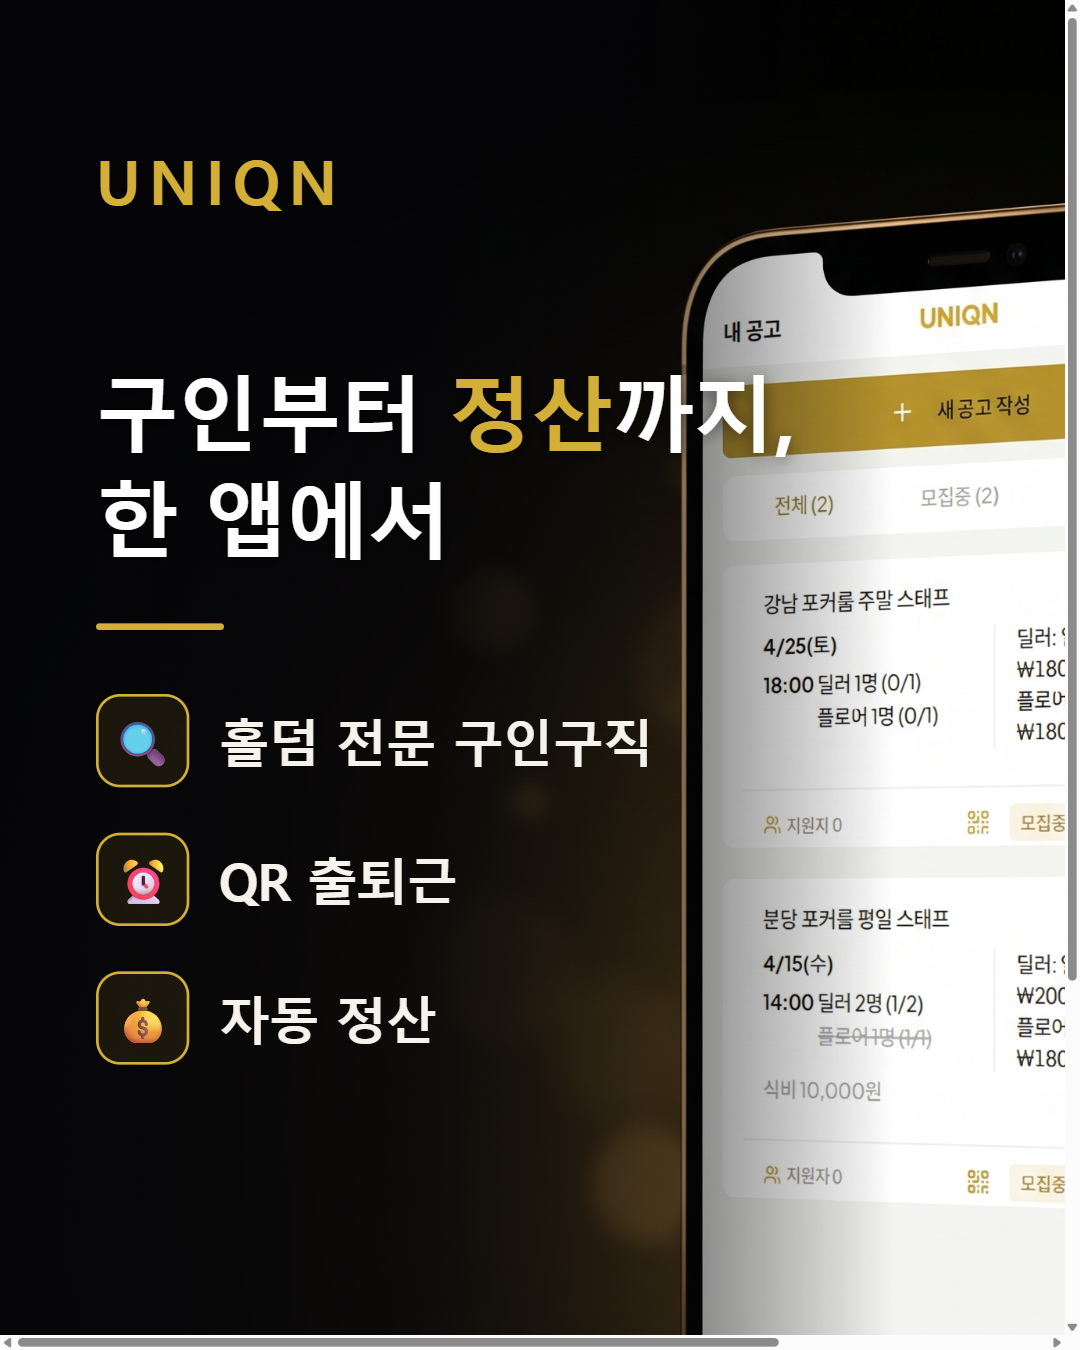
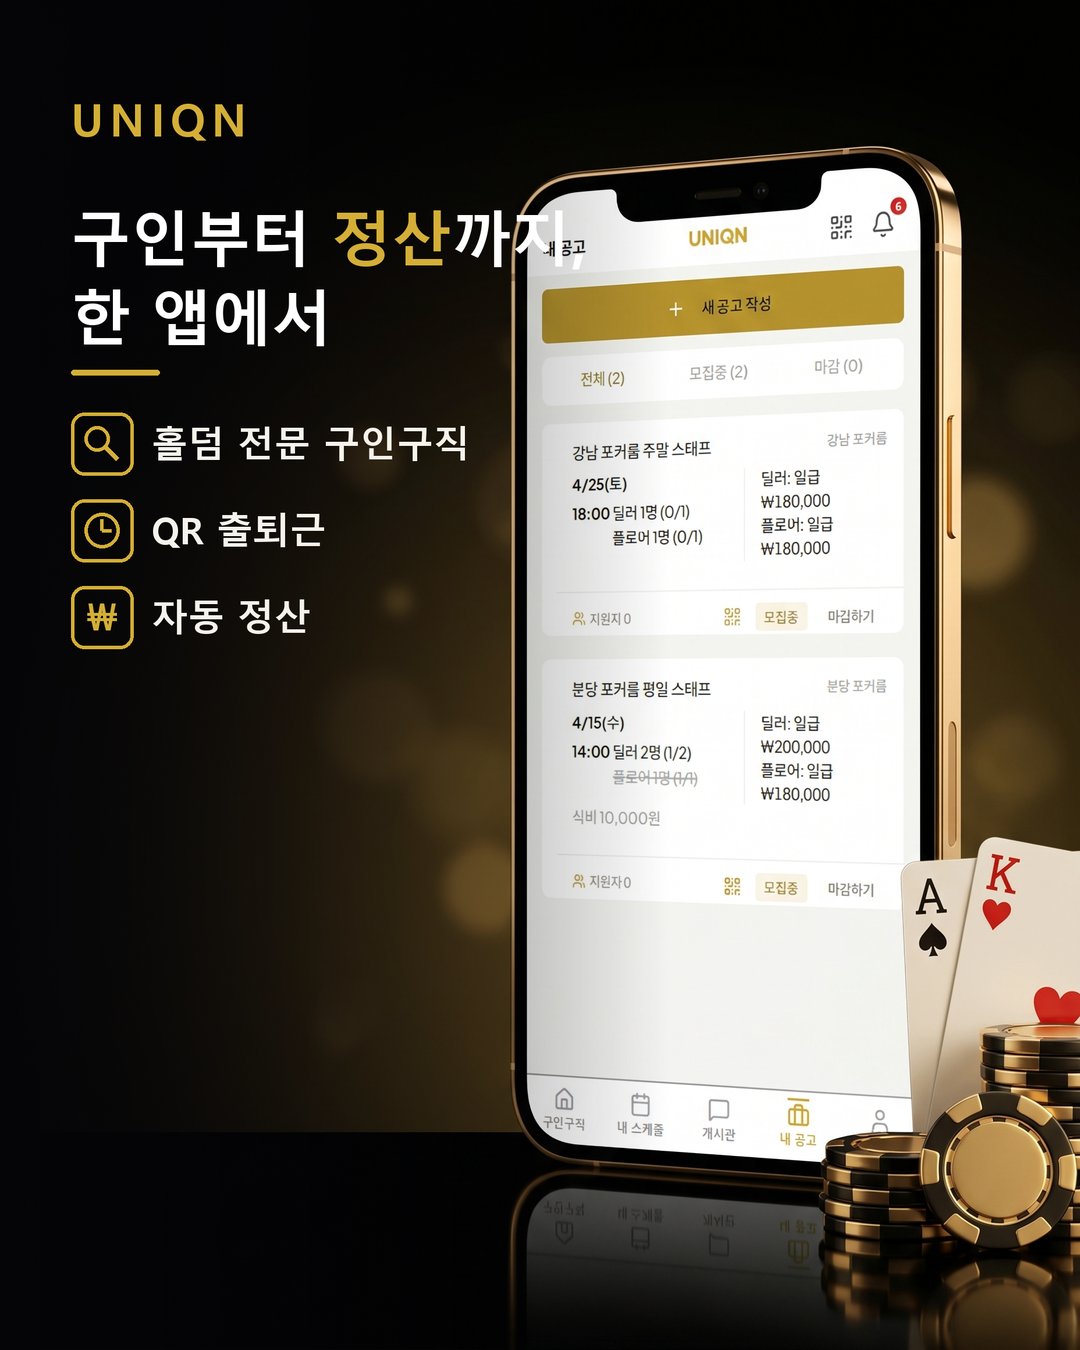
fix(marketing): 최종 컷 크롭 해소 — PIL 합성으로 전환 (베이스 원본 전체 표시)
cover 스케일이 폰 가장자리를 잘라내던 문제 → compose_overlay.py로 베이스 1856x2304 원본 위에 직접 오버레이. 아이콘은 골드 라인. appcomp-final.png(1080x1350) + appcomp-final-hi.png(원본). 브라우저 HTML 방식 제거.

diff --git a/marketing/uniqn-campaign/sample-01/compose_overlay.py b/marketing/uniqn-campaign/sample-01/compose_overlay.py
@@ -1,0 +1,104 @@
+# -*- coding: utf-8 -*-
+"""UNIQN 좌우 스플릿 마케팅 컷 — 베이스(폰+배경) 위에 한글 카피/아이콘 오버레이.
+브라우저 대신 PIL 사용: 크롭/레터박스 없이 베이스 원본 해상도에서 합성."""
+import os
+from PIL import Image, ImageDraw, ImageFont
+
+HERE = os.path.dirname(os.path.abspath(__file__))
+BASE = os.path.join(HERE, "appcomp-base.png")
+FINAL = os.path.join(HERE, "appcomp-final.png")          # 1080x1350 (IG)
+FINAL_HI = os.path.join(HERE, "appcomp-final-hi.png")    # 원본 해상도
+
+MALGUNBD = "C:/Windows/Fonts/malgunbd.ttf"
+
+GOLD  = (212, 175, 55, 255)
+OFF   = (245, 243, 236, 255)
+WHITE = (255, 255, 255, 255)
+DARK  = (5, 5, 8)
+
+base = Image.open(BASE).convert("RGBA")
+W, H = base.size
+
+# 1) 좌측 가독용 스크림 (왼쪽 어둡게 → 62% 지점에서 투명)
+scrim = Image.new("RGBA", (W, H), (0, 0, 0, 0))
+sd = ImageDraw.Draw(scrim)
+x_end = int(W * 0.62)
+for x in range(x_end):
+    a = int(238 * (1 - x / x_end))
+    sd.line([(x, 0), (x, H)], fill=(DARK[0], DARK[1], DARK[2], a))
+base = Image.alpha_composite(base, scrim)
+draw = ImageDraw.Draw(base)
+
+def bold(sz):
+    return ImageFont.truetype(MALGUNBD, sz)
+
+def draw_spaced(d, pos, text, font, fill, spacing):
+    x, y = pos
+    for ch in text:
+        d.text((x, y), ch, font=font, fill=fill)
+        x += d.textlength(ch, font=font) + spacing
+    return x
+
+LX = int(W * 0.066)
+
+# 2) 브랜드 로고
+draw_spaced(draw, (LX, int(H * 0.065)), "UNIQN", bold(int(W * 0.042)), GOLD, 10)
+
+# 3) 헤드라인 (정산 = 골드)
+hl = bold(int(W * 0.056))
+lh = int(W * 0.056 * 1.30)
+y = int(H * 0.145)
+x = LX
+for t, c in [("구인부터 ", WHITE), ("정산", GOLD), ("까지,", WHITE)]:
+    draw.text((x, y), t, font=hl, fill=c)
+    x += draw.textlength(t, font=hl)
+y += lh
+draw.text((LX, y), "한 앱에서", font=hl, fill=WHITE)
+y += lh
+
+# 4) 골드 디바이더
+y += int(H * 0.012)
+dw = int(W * 0.082)
+dh = max(5, int(H * 0.004))
+draw.rounded_rectangle([LX, y, LX + dw, y + dh], radius=dh // 2, fill=GOLD)
+y += int(H * 0.032)
+
+# 5) 기능 3필러 (골드 라인 아이콘 직접 그림)
+feat = bold(int(W * 0.034))
+S = int(W * 0.058)        # 아이콘 박스
+gap = int(W * 0.017)
+items = [("magnifier", "홀덤 전문 구인구직"), ("clock", "QR 출퇴근"), ("won", "자동 정산")]
+lw_icon = max(5, int(S * 0.06))
+for icon, label in items:
+    bx, by = LX, y
+    draw.rounded_rectangle([bx, by, bx + S, by + S], radius=int(S * 0.22),
+                           outline=GOLD, width=lw_icon)
+    cx, cy = bx + S * 0.5, by + S * 0.5
+    if icon == "magnifier":
+        r = S * 0.20
+        ox, oy = bx + S * 0.42, by + S * 0.42
+        draw.ellipse([ox - r, oy - r, ox + r, oy + r], outline=GOLD, width=lw_icon)
+        draw.line([ox + r * 0.7, oy + r * 0.7, bx + S * 0.74, by + S * 0.74],
+                  fill=GOLD, width=lw_icon + 2)
+    elif icon == "clock":
+        r = S * 0.28
+        draw.ellipse([cx - r, cy - r, cx + r, cy + r], outline=GOLD, width=lw_icon)
+        draw.line([cx, cy, cx, cy - r * 0.62], fill=GOLD, width=lw_icon)
+        draw.line([cx, cy, cx + r * 0.52, cy], fill=GOLD, width=lw_icon)
+    else:  # won
+        wf = bold(int(S * 0.6))
+        wt = "₩"
+        tw = draw.textlength(wt, font=wf)
+        bb = wf.getbbox(wt)
+        draw.text((cx - tw / 2, cy - (bb[3] - bb[1]) / 2 - bb[1]), wt, font=wf, fill=GOLD)
+    # 라벨 수직 중앙
+    lb = feat.getbbox("가")
+    draw.text((bx + S + gap, by + (S - (lb[3] - lb[1])) / 2 - lb[1]),
+              label, font=feat, fill=OFF)
+    y += S + int(H * 0.018)
+
+out = base.convert("RGB")
+out.save(FINAL_HI)
+out.resize((1080, 1350), Image.LANCZOS).save(FINAL)
+print("saved:", FINAL, out.size, "->", (1080, 1350))
+print("hi   :", FINAL_HI, out.size)
